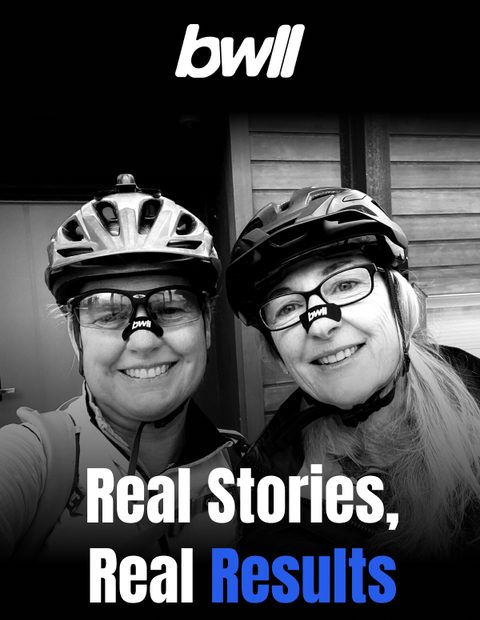
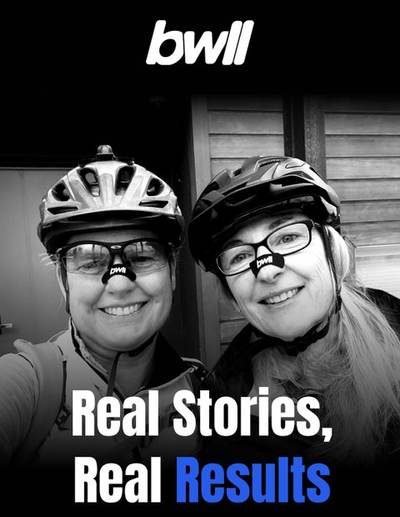
Fix ad copy and speed up creative columns image loading
We don't run ads, so drop that word from the heading. Also shrink the
scroll-email crops (480->400px wide, lower quality) and trim the list
from 15 to 12 unique images to cut payload and request count, plus
serve them at a lower Next/Image quality since they're small cards.

diff --git a/src/components/ui/CreativeColumns.tsx b/src/components/ui/CreativeColumns.tsx
@@ -12,8 +12,6 @@ const left = [
   { src: "/home/scroll-emails/lipo-black-friday.jpg", alt: "Lipo Beauty Tea Black Friday email" },
   { src: "/home/scroll-emails/streaky-welcome.jpg", alt: "Streaky Academy welcome email" },
   { src: "/home/scroll-emails/bwll-real-stories.jpg", alt: "BWLL 'Real Stories' customer email" },
-  { src: "/home/scroll-emails/cannonbalm-ultimate.jpg", alt: "CannonBalm Ultimate 120ml launch email" },
-  { src: "/home/scroll-emails/maxsleek-welcome.jpg", alt: "MaxSleek welcome email" },
 ];
 
 const right = [
@@ -22,7 +20,6 @@ const right = [
   { src: "/home/scroll-emails/bwll-welcome.jpg", alt: "BWLL welcome email" },
   { src: "/home/scroll-emails/feno-setup.jpg", alt: "Feno setup email" },
   { src: "/home/scroll-emails/cannonbalm-spend-more.jpg", alt: "CannonBalm spend and save email" },
-  { src: "/home/scroll-emails/lipo-last-chance.jpg", alt: "Lipo Beauty Tea last chance email" },
   { src: "/home/scroll-emails/streaky-social-proof.jpg", alt: "Streaky Academy social proof email" },
 ];
 
@@ -59,6 +56,7 @@ function Column({
               width={CARD_W}
               height={CARD_H}
               sizes="(min-width: 1024px) 200px, (min-width: 768px) 160px, (min-width: 640px) 130px, 88px"
+              quality={65}
               className="block h-auto w-full"
             />
           </li>
@@ -89,7 +87,7 @@ export function CreativeColumns() {
         <div className="relative z-10 mx-auto max-w-[240px] rounded-2xl border border-border-hairline bg-white/90 p-5 text-center shadow-xl backdrop-blur-sm sm:max-w-[380px] sm:p-7 md:max-w-[560px] md:p-10">
           <Eyebrow>Real creative</Eyebrow>
           <h2 className="mt-4 font-heading text-xl font-semibold text-balance sm:text-2xl md:text-4xl">
-            Emails and ads we actually wrote, designed and sent.
+            Emails we actually wrote, designed and sent.
           </h2>
           <p className="mt-4 font-body text-sm text-foreground-muted text-pretty sm:text-base">
             Every one of these went to a real list for a real client. No templates, no stock
